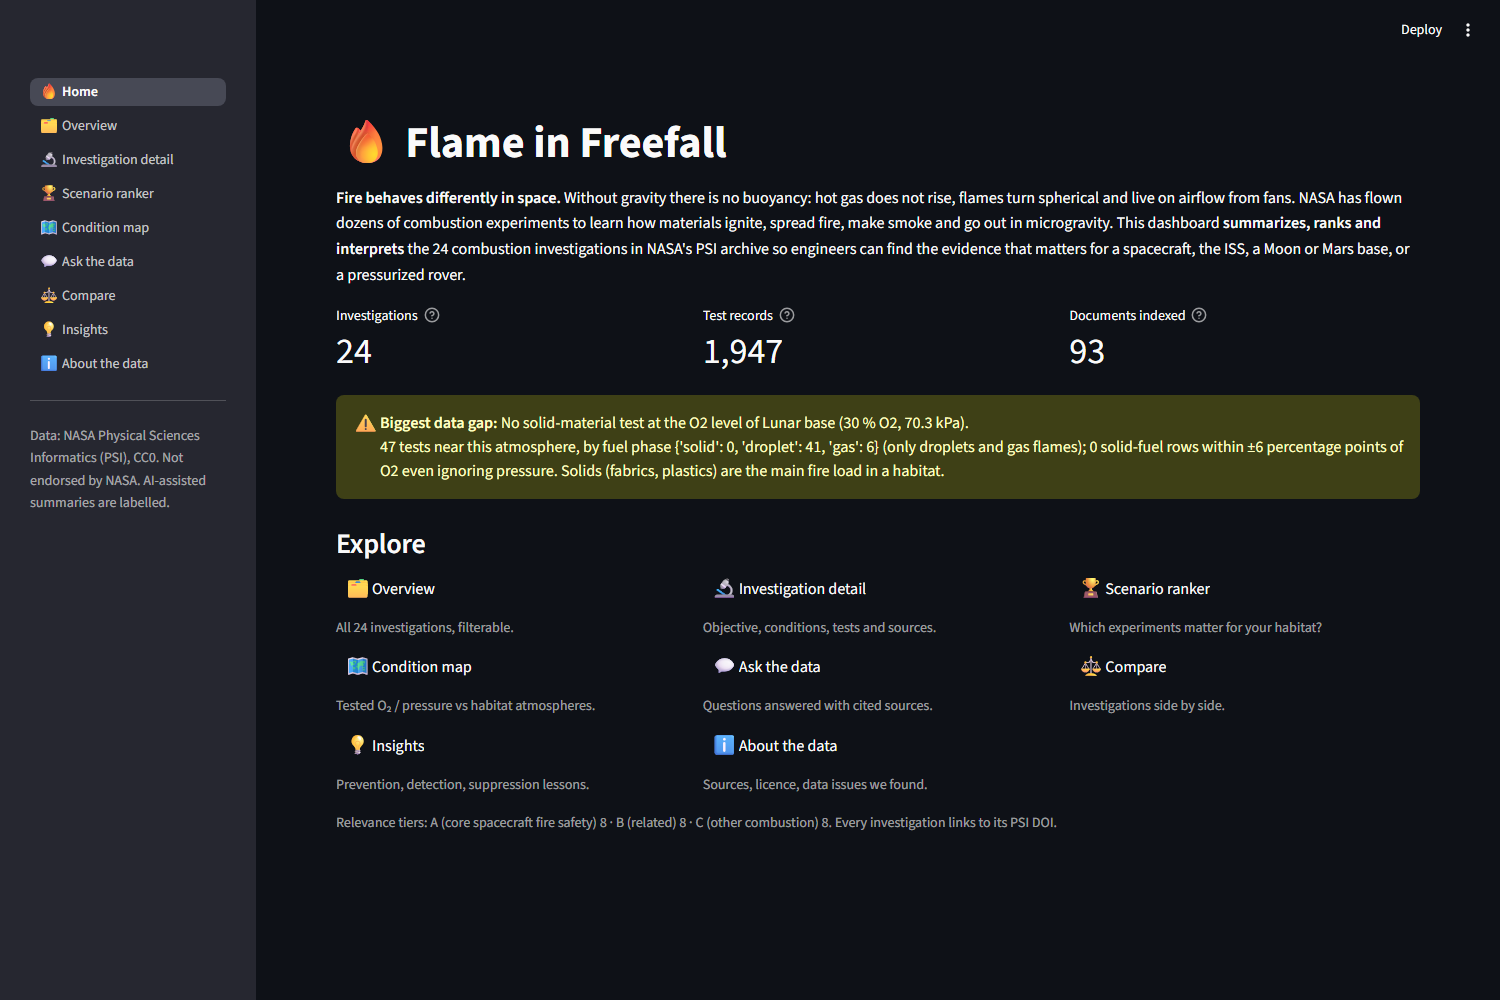
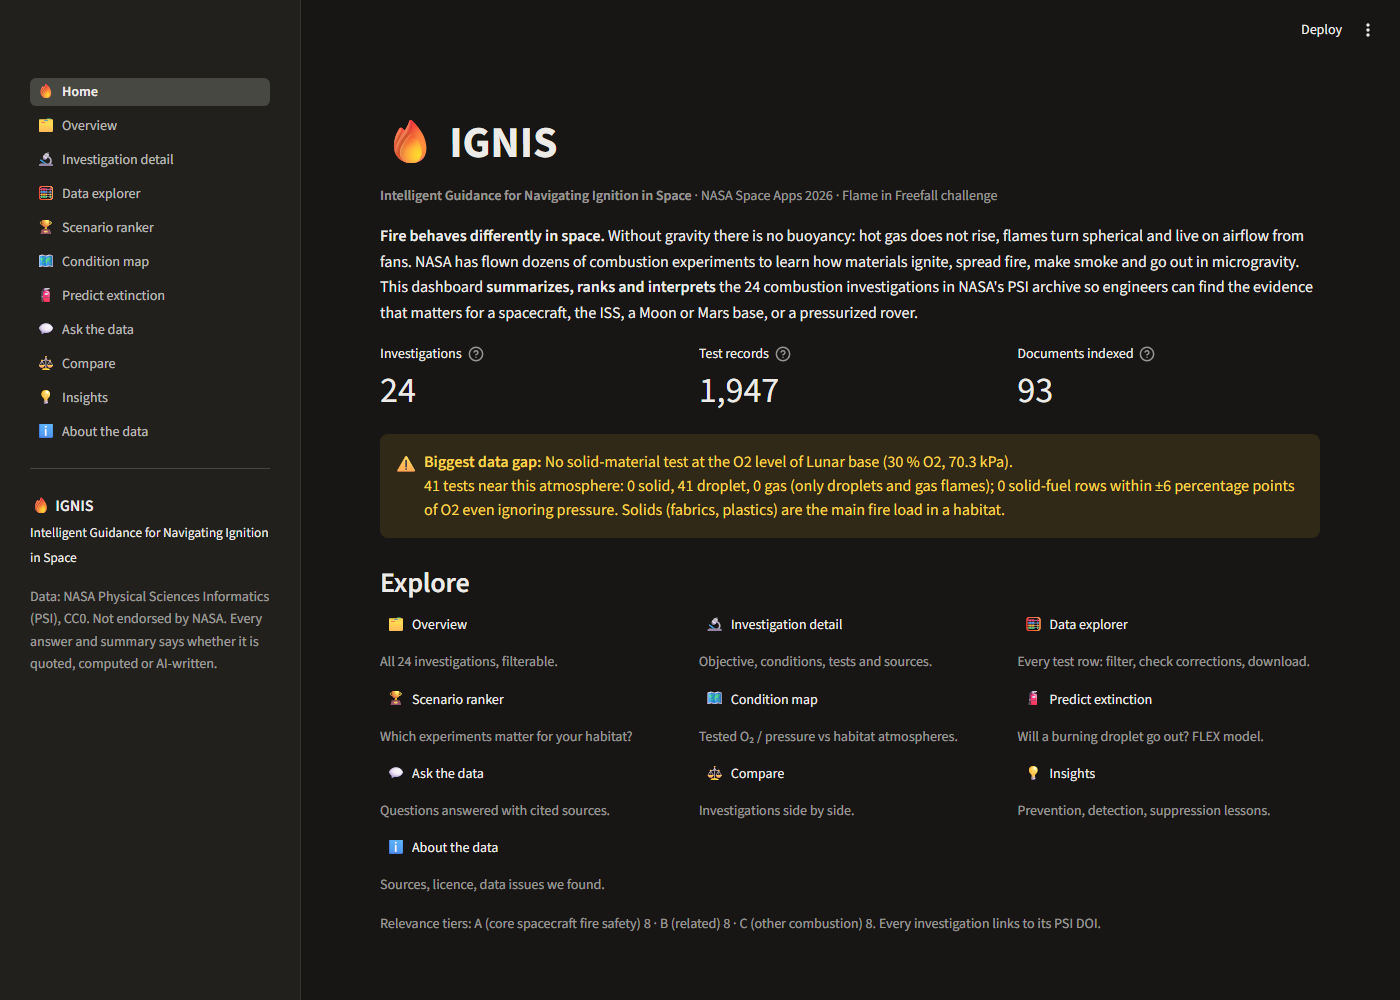
App name IGNIS: browser tab, Home title + tagline, sidebar, About
APP_NAME = "IGNIS" with APP_TAGLINE "Intelligent Guidance for Navigating Ignition in Space"
and the challenge name under the Home title (same name as submission/summary.md and the deck).
Retook app/screenshots/home.png.

Closes #27

diff --git a/app/main.py b/app/main.py
@@ -1,4 +1,4 @@
-"""Flame in Freefall — Streamlit entry point.  Run from the repo root:
+"""IGNIS (NASA Space Apps 2026, Flame in Freefall) — Streamlit entry point.  Run from the repo root:
 
     streamlit run app/main.py
 """
@@ -13,9 +13,9 @@ if str(ROOT) not in sys.path:
 import streamlit as st  # noqa: E402
 
 from app.data import warmup  # noqa: E402
-from app.nav import APP_NAME, available  # noqa: E402
+from app.nav import APP_NAME, APP_TAGLINE, available  # noqa: E402
 
-st.set_page_config(page_title=APP_NAME, page_icon="🔥", layout="wide")
+st.set_page_config(page_title=f"{APP_NAME} · {APP_TAGLINE}", page_icon="🔥", layout="wide")
 
 # Streamlit Community Cloud: API keys are Streamlit secrets, not a .env file. Copy them into the
 # environment, where ai/ looks for them (GEMINI_API_KEY = free tier; FIF_LLM picks the provider).
@@ -35,6 +35,7 @@ PAGES = [st.Page(path, title=title, icon=icon, default=(path == "views/home.py")
 nav = st.navigation(PAGES)
 warmup()
 with st.sidebar:
+    st.markdown(f"**🔥 {APP_NAME}**  \n<small>{APP_TAGLINE}</small>", unsafe_allow_html=True)
     st.caption("Data: NASA Physical Sciences Informatics (PSI), CC0. "
                "Not endorsed by NASA. Every answer and summary says whether it is quoted, computed or AI-written.")
 nav.run()

diff --git a/app/nav.py b/app/nav.py
@@ -4,9 +4,10 @@ from pathlib import Path
 
 APP_DIR = Path(__file__).resolve().parent
 
-# Project name shown in the browser tab and on the home page. "Flame in Freefall" is the challenge's
-# name; change this one line when the team picks the project name (see the submission summary).
-APP_NAME = "Flame in Freefall"
+# Project name (team decision, #27; same as submission/summary.md and the deck). Browser tab, home, sidebar.
+APP_NAME = "IGNIS"
+APP_TAGLINE = "Intelligent Guidance for Navigating Ignition in Space"
+CHALLENGE = "NASA Space Apps 2026 · Flame in Freefall challenge"
 
 # (path relative to app/, title, icon, one-line description)
 PAGE_SPECS = [

diff --git a/app/views/home.py b/app/views/home.py
@@ -1,7 +1,7 @@
 import streamlit as st
 
 from app import data
-from app.nav import APP_NAME, available
+from app.nav import APP_NAME, APP_TAGLINE, CHALLENGE, available
 
 invs = data.investigations()
 tests = data.tests()
@@ -9,6 +9,7 @@ docs = data.doc_stats()
 cov = data.coverage()
 
 st.title(f"🔥 {APP_NAME}")
+st.caption(f"**{APP_TAGLINE}** · {CHALLENGE}")
 st.markdown(
     "**Fire behaves differently in space.** Without gravity there is no buoyancy: hot gas does "
     "not rise, flames turn spherical and live on airflow from fans. NASA has flown dozens of "

diff --git a/app/tests/test_app_pages.py b/app/tests/test_app_pages.py
@@ -19,7 +19,8 @@ TIMEOUT = 120
 def test_main_renders_home():
     at = AppTest.from_file(str(APP_DIR / "main.py"), default_timeout=TIMEOUT).run()
     assert not at.exception, at.exception
-    assert any("Flame in Freefall" in t.value for t in at.title)
+    assert any("IGNIS" in t.value for t in at.title)
+    assert any("Flame in Freefall" in c.value for c in at.caption)
     labels = [m.label for m in at.metric]
     assert {"Investigations", "Test records", "Documents indexed"} <= set(labels)
     assert at.metric[0].value == "24"

diff --git a/app/views/about.py b/app/views/about.py
@@ -108,4 +108,4 @@ st.markdown(
     "- The project code was written with help from AI coding assistants (Claude Code).\n\n"
     "Every statement links to its PSI source (investigation, DOI, file and page) so it can be checked."
 )
-st.caption("Built for NASA Space Apps Challenge 2026 — 'Flame in Freefall'.")
+st.caption("IGNIS — built for NASA Space Apps Challenge 2026, 'Flame in Freefall' challenge.")
